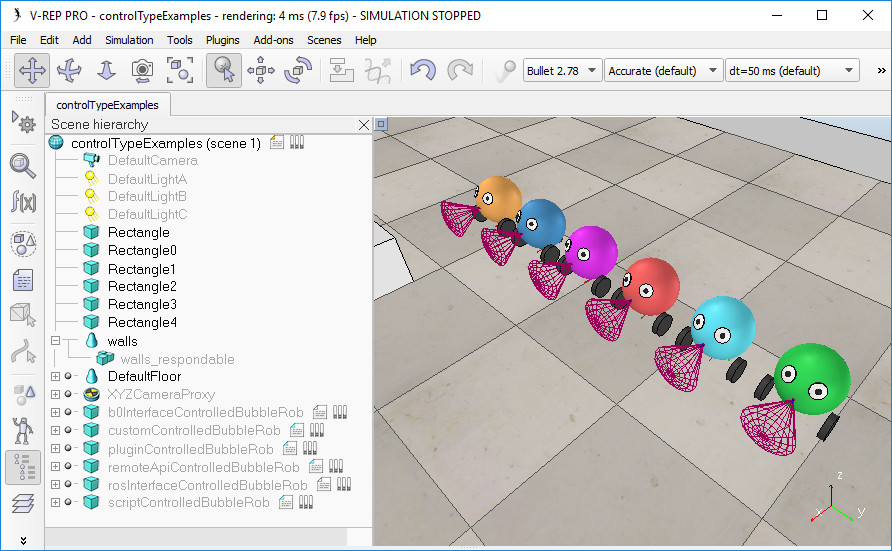
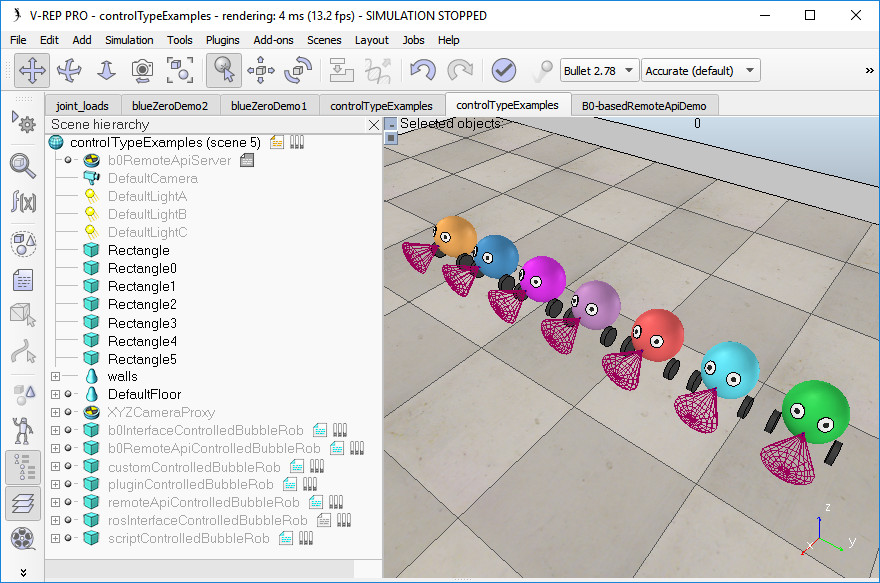
various b0-based remote API related, and sim.openTextEditor / sim.closeTextEditor

diff --git a/en/externalControllerTutorial.htm b/en/externalControllerTutorial.htm
@@ -24,18 +24,18 @@
 <br>
 <li> Another way one can control a robot or a simulation is by writing a <a href="plugins.htm">plugin</a>. The plugin mechanism allows for callback mechanisms, <a href="apiFunctionListCategory.htm#customizingLuaFunctions">custom Lua function registration</a>, and of course access to external function libraries. A plugin is often used in conjunction with child scripts (e.g. the plugin registers custom Lua functions, that, when called from a child script, will call back a specific plugin function). A major advantage in using plugins is also that  there is no communication lag as with the last 3 methods mentioned in this section (i.e. the <a href="apiOverview.htm">regular API</a> is used), and that a plugin is part of the application main thread (inherent synchronous operation). The drawbacks with plugins are: they are more complicated to program, and they need to be compiled with an external too. Refer also to the <a href="pluginTutorial.htm">plugin tutorial</a>.</li>
 <br>
-<li> A third  way one can control a robot or a simulation is by writing an external client application that relies on the <a href="remoteApiOverview.htm">remote API</a>. This is a very convenient and easy way, if you need to run the control code from an external application, from a robot or from another computer. This also allows you to control a simulation or a <a href="models.htm">model</a> (e.g. a virtual robot) with the exact same code as the one that runs the real robot. The remote API comes in two versions: the <a href="b0RemoteApiOverview.htm">B0-based remote API</a>, and the <a href="legacyRemoteApiOverview.htm">legacy remote API</a>.</li>
+<li> A third  and forth way one can control a robot or a simulation is by writing an external client application that relies on the <a href="remoteApiOverview.htm">remote API</a>. This is a very convenient and easy way, if you need to run the control code from an external application, from a robot or from another computer. This also allows you to control a simulation or a <a href="models.htm">model</a> (e.g. a virtual robot) with the exact same code as the one that runs the real robot. The remote API comes in two versions: the <a href="b0RemoteApiOverview.htm">B0-based remote API</a>, and the <a href="legacyRemoteApiOverview.htm">legacy remote API</a>.</li>
 <br>
 
 
-<li>A forth way to control a robot or a simulation is via a <a href="http://www.ros.org">ROS</a> node. In a similar way as the <a href="remoteApiOverview.htm">remote API</a>, ROS is a convenient way to have several distributed processes communicate with each other. While the remote API is very lightweight and fast, it allows only communication with V-REP. ROS on the other hand allows connecting virtually any number of processes with each other, and a large amount of compatible libraries are available. It is however heavier and more complicated than the remote API. Refer to the <a href="rosInterfaces.htm">ROS interfaces</a> for details.</li>
+<li>A fifth way to control a robot or a simulation is via a <a href="http://www.ros.org">ROS</a> node. In a similar way as the <a href="remoteApiOverview.htm">remote API</a>, ROS is a convenient way to have several distributed processes communicate with each other. While the remote API is very lightweight and fast, it allows only communication with V-REP. ROS on the other hand allows connecting virtually any number of processes with each other, and a large amount of compatible libraries are available. It is however heavier and more complicated than the remote API. Refer to the <a href="rosInterfaces.htm">ROS interfaces</a> for details.</li>
 <br>
 
-<li>A fifth way to control a robot or a simulation is via a <a href="https://github.com/blueworkforce/bluezero" target="_blank">BlueZero</a> (B&Oslash;) node. In a similar way as  ROS, BlueZero is a convenient way to have several distributed processes communicate with each other, and is a lightweight and cross-platform solution. Refer to the <a href="blueZeroPlugin.htm">BlueZero interface</a> for details.</li>
+<li>A sixth way to control a robot or a simulation is via a <a href="https://github.com/blueworkforce/bluezero" target="_blank">BlueZero</a> (B&Oslash;) node. In a similar way as  ROS, BlueZero is a convenient way to have several distributed processes communicate with each other, and is a lightweight and cross-platform solution. Refer to the <a href="blueZeroPlugin.htm">BlueZero interface</a> for details.</li>
 <br>
 
 
-<li>A sixth way to control a robot or a simulation is by writing an external application that communicates via various means (e.g. pipes, sockets, serial port, etc.) with a V-REP plugin or V-REP script. Two major advantages are the choice of programming language, which can be just any language, and the flexibility. Here also, the control code can run on a robot, or a different computer. This way of controlling a simulation or a model is however more tedious that the method with the <a href="remoteApiOverview.htm">remote API</a>.</li>
+<li>A seventh way to control a robot or a simulation is by writing an external application that communicates via various means (e.g. pipes, sockets, serial port, etc.) with a V-REP plugin or V-REP script. Two major advantages are the choice of programming language, which can be just any language, and the flexibility. Here also, the control code can run on a robot, or a different computer. This way of controlling a simulation or a model is however more tedious that the methods with the <a href="remoteApiOverview.htm">remote API</a>.</li>
 <br>
 
 
@@ -46,15 +46,10 @@
 <p align=center><img src="images/externalControllerTut1.jpg"></p>
 <br>
 
-<p>The simulation illustrates the 6 control types previously mentioned: the orange robot is controlled by  an embedded child script, the dark-blue robot is controlled by a plugin, the purple robot is controlled via the B0-based remote API and an external client application, the light purple robot is controlled via the legacy remote API and an external client application, the red robot is controlled via an external ROS application, the light-blue robot is controlled via an external BlueZero application,  and the green robot is controlled by an external server application via a custom socket communication. In all 6 cases, <a href="childScripts.htm">child scripts</a> are used, mainly to make the link with the outside world (e.g. launch the correct client application, and pass the correct object handles to it). There are two other ways one can control a robot, a simulation, or the simulator itself: by using <a href="customizationScripts.htm">customization scripts</a>, or <a href="addOns.htm">add-ons</a>. They are however not recommended for control and should be rather used to handle functionality while simulation is not running.</p>
+<p>The simulation illustrates the 7 control types previously mentioned: the orange robot is controlled by  an embedded child script, the dark-blue robot is controlled by a plugin, the purple robot is controlled via the B0-based remote API and an external client application, the light purple robot is controlled via the legacy remote API and an external client application, the red robot is controlled via an external ROS application, the light-blue robot is controlled via an external BlueZero application,  and the green robot is controlled by an external server application via a custom socket communication. In all 7 cases, <a href="childScripts.htm">child scripts</a> are used, mainly to make the link with the outside world (e.g. launch the correct client application, and pass the correct object handles to it). There are two other ways one can control a robot, a simulation, or the simulator itself: by using <a href="customizationScripts.htm">customization scripts</a>, or <a href="addOns.htm">add-ons</a>. They are however not recommended for control and should be rather used to handle functionality while simulation is not running.</p>
 
-<p>As an example, the child script linked to the purple robot has following main tasks:</p>
-<li>Search for a free socket connection port</li>
-<li>Start a remote API server service on the above port</li>
-<li>Launch the controller application (<a href="https://github.com/CoppeliaRobotics/bubbleRobClient" target="_blank">bubbleRobClient</a>) with the chosen connection port and some object handles as argument</li>
-
-
-
+<p>As an example, the child script linked to the purple robot has following main task:</p>
+<li>Launch the controller application (<a href="https://github.com/CoppeliaRobotics/b0RemoteApiBindings/tree/master/cpp/bubbleRobClient" target="_blank">bubbleRobClient_b0RemoteApi</a>) with some object handles as arguments. The server functionality of the B0-based remote API is provided by object <em>b0RemoteApiServer</em>.</li>
 <p>As another example, the child script linked to the red robot has following main tasks:</p>
 <li>Check if the <a href="rosInterf.htm">RosInterface</a> for V-REP was loaded</li>
 <li>Launch the controller application (<a href="https://github.com/CoppeliaRobotics/ros_bubble_rob2" target="_blank">rosBubbleRob2</a>) with some topic names or object handles as arguments</li>
@@ -66,7 +61,7 @@
 <li>At each simulation pass, send the sensor values to the controller, and read the desired motor values from the controller</li>
 <li>At each simulation pass, apply the desired motor values to the robot's joints</li>
 
-<p>Run the simulation, and copy-and-paste all robots: you will see that the duplicated robots will directly be operational, since their attached child scripts are in charge of launching new instances of <em>bubbleRobClient</em>, <em>rosBubbleRob2</em>, <em>bubbleRobServer, b0_bubbleRob</em>, or calling the appropriate plugin Lua extension function.</p>
+<p>Run the simulation, and copy-and-paste all robots: you will see that the duplicated robots will directly be operational, since their attached child scripts are in charge of launching new instances of their respective external applications, or calling the appropriate plugin Lua extension function.</p>
 
 <p>Finally, notice that the green robot is controlled via <em>bubbleRobServer</em>, but that its child script acts as client that communicates with the server. You could also imagine having the client part not inside of a child script, but inside of a plugin. Such an example is illustrated in the <a href="robotLanguageIntegrationTutorial.htm">robot language interpreter integration tutorial</a>. </p>
 

diff --git a/en/acknowledgments.htm b/en/acknowledgments.htm
@@ -134,7 +134,7 @@ Eric Rohmer who is a thorough V-REP tester and an &quot;idea machine&quot;. He i
 <li>Emanuel Eichhammer, for his <a href="http://www.customplot.com">QCustomPlot</a> used in the <a href="customUIPlugin.htm">custom UI plugin</a>. <a href="#qcustomplot">See the license</a>.</li>
 <li>Benjamin Navarro, for his code in the legacy remote API, which enables shared memory communication instead of socket communication.</li>
 
-<li>Following people for noticing bugs, reporting problems, suggesting solutions or new ideas, providing patches, code improvements, or simply helping out: Guillermo Presti, Matthias Fueller, Paul Fudal, Matthieu Lapeyre, Alberto Fanjul, Laurens Philippo, Vadim Liventsev, Kirill Makukhin, Patrick Bouffard, Pouya Mohammadi, Luca Marchionni, Barrett Ames, Arnaud Leleve, Geerten Doornenbal, Nikolaus Wittenstein, Ayberk Ozgur, Qi Wang, Giordano, Karl Robillard, Brian Yeomans, Kiyoshi Irie, Ulrich Schwesinger, Peter Mačička, Inkyu Sa, David Butterworth, Marco Cognetti, Xinyu Zhang, Jaqueline Gallardo, Serkan ÇİÇEK, Taehoon Koo, He Tao, Yusuke Ishizawa, Billy Newman, Rüdiger Dehmel, Roberto Marino, Renaud Detry, Roband, Hendrik Wiese, Matthias Schindler, George Moustris, Marco Bellaccini, Klaus Raizer, Paulo Gurgel, Stéphane Magnenat, Philipp Krüsi, Pascal Gohl, Gianpaolo Gonnelli, Felix Herrmann, Edgar Virga, Josep Tormo Costa, Gaël Ecorchard, Massimo Cefalo, Robert Lang, Marc Durvaux, Alexander Rietzler, Matt Derry, Arne Hitzmann, Sergi Foix, Daniel Morberg, Andreas Kuhner, Gerold Huber, Danilo Vasconcellos Vargas, Spencer Krause, Daniel Kuhner, Filip Jares, Luigi Ferri, Michaela Richter, Daniel Lechner, Sven Knüppel, Steve Nguyen, Jonas Sperling, Roberto Guzman, James Besancon, Andrew Vardy, Bipeen Acharya, Fred Gisa, Simon D. Levy, Leopoldo Armesto, Rodrigo Moreno Garcia, Hanna Kurniawati, Dimitri Klimenko, Joshua Mun Song,  Vinay Yadav, Thomas Estier, Matthias Imle, Rosé Rosado, Soner Ulun, Reza Mahjourian, Ben Allan, Riccardo Spica,  Giovanni Claudio, Guenter Schreiber, Antoine Rennuit, Francois Conti, Sébastien Granges, Patrick Helmer, Eva Alves Costa, Lucian Cucu, Sigurd Villumsen, Andrea Censi, Pierre Rouanet, Leander Hille, Christoph Hügle, William Harrison, Scott Drew Pendleton, Jan Dentler, Raimund Krenmüller, Anuraj Rajendraprakash, Ilya Nemihin, Ángel Luis Jiménez García, Leander Hille, Pierre Rouanet, Kenichi Hara, Ilya Nemihin, Federico Ferri, Michael Michalik, Martin Pecka, Nicola Piccinelli, Kshitij Tiwari, Victor Gomez, Parker Owan, Yuki Suga, Muhammad Umer Huzaifa, Marshall Floyd, Augusto Gandia, Pierre Jacquot, Gurvan Le Bleis, Andreu Vidal, Nicola Di Pol, Tobias Groll, Wu Xiaojun, Karol Mocniak, Ana Lucia, Ricardo Azambuja, Anto Ronson, Graeme Neff Wilson, Minson Lee, Tiago Malheiro, Andrew Hundt, Ahmed Yacine, Matthias Ploner, Indranil Sur, Sung Kyun Kim, Rik Timmers, Matthew Veres, Korolyov Alexei, Daniel Angelov, Mohammed Talha, Bartolomeo Della Corte, Scott Hissam, Mark Fink, Hao Wang, Matias Nitsche, Ndivhuwo Makondo, Yu Zhang, DeKita G. Moon, Paul Santiago Tumbaco Casa, Tobias Benz, Rodrigo Moreno Garcia, Arjun Narayanan, Sven Schweigler, Nicola Battilani, Mark Edmonds,  Benno Timmermann, Cándido Otero Moreira, Justin Yim, Allen Zhu, Leo Koppel, Ravi Prakash Joshi, Sina Radmard, Sai Vemprala, Waleed El-Badry, James Barger, Gonzalo Casas, Metehan Doyran, Arif Rahman, Jason Cachrane, Steffen Hemer, Fangyi Zhang, Filipe Rocha, virgile Daugé, Riccardo Spica, Florian Golemo, Kevin M. Lynch, Frank C. Park, Jacob Huesman, Matthew Veres, Cándido Otero, Leon Masopust, Michael Tong, Zhengxing Yang, Thomas Gurriet, Lenka Pitonakova, Hervé Frezza-Buet, Justus Rijke, Stefan Müller, Julien Lechalupe, Tristan Gahler, Robert Peck, William Jones... We know we forgot many many people, also significant ones... please let us know!</li>
+<li>Following people for noticing bugs, reporting problems, suggesting solutions or new ideas, providing patches, code improvements, or simply helping out: Guillermo Presti, Matthias Fueller, Paul Fudal, Matthieu Lapeyre, Alberto Fanjul, Laurens Philippo, Vadim Liventsev, Kirill Makukhin, Patrick Bouffard, Pouya Mohammadi, Luca Marchionni, Barrett Ames, Arnaud Leleve, Geerten Doornenbal, Nikolaus Wittenstein, Ayberk Ozgur, Qi Wang, Giordano, Karl Robillard, Brian Yeomans, Kiyoshi Irie, Ulrich Schwesinger, Peter Mačička, Inkyu Sa, David Butterworth, Marco Cognetti, Xinyu Zhang, Jaqueline Gallardo, Serkan ÇİÇEK, Taehoon Koo, He Tao, Yusuke Ishizawa, Billy Newman, Rüdiger Dehmel, Roberto Marino, Renaud Detry, Roband, Hendrik Wiese, Matthias Schindler, George Moustris, Marco Bellaccini, Klaus Raizer, Paulo Gurgel, Stéphane Magnenat, Philipp Krüsi, Pascal Gohl, Gianpaolo Gonnelli, Felix Herrmann, Edgar Virga, Josep Tormo Costa, Gaël Ecorchard, Massimo Cefalo, Robert Lang, Marc Durvaux, Alexander Rietzler, Matt Derry, Arne Hitzmann, Sergi Foix, Daniel Morberg, Andreas Kuhner, Gerold Huber, Danilo Vasconcellos Vargas, Spencer Krause, Daniel Kuhner, Filip Jares, Luigi Ferri, Michaela Richter, Daniel Lechner, Sven Knüppel, Steve Nguyen, Jonas Sperling, Roberto Guzman, James Besancon, Andrew Vardy, Bipeen Acharya, Fred Gisa, Simon D. Levy, Leopoldo Armesto, Rodrigo Moreno Garcia, Hanna Kurniawati, Dimitri Klimenko, Joshua Mun Song,  Vinay Yadav, Thomas Estier, Matthias Imle, Rosé Rosado, Soner Ulun, Reza Mahjourian, Ben Allan, Riccardo Spica,  Giovanni Claudio, Guenter Schreiber, Antoine Rennuit, Francois Conti, Sébastien Granges, Patrick Helmer, Eva Alves Costa, Lucian Cucu, Sigurd Villumsen, Andrea Censi, Pierre Rouanet, Leander Hille, Christoph Hügle, William Harrison, Scott Drew Pendleton, Jan Dentler, Raimund Krenmüller, Anuraj Rajendraprakash, Ilya Nemihin, Ángel Luis Jiménez García, Leander Hille, Pierre Rouanet, Kenichi Hara, Ilya Nemihin, Federico Ferri, Michael Michalik, Martin Pecka, Nicola Piccinelli, Kshitij Tiwari, Victor Gomez, Parker Owan, Yuki Suga, Muhammad Umer Huzaifa, Marshall Floyd, Augusto Gandia, Pierre Jacquot, Gurvan Le Bleis, Andreu Vidal, Nicola Di Pol, Tobias Groll, Wu Xiaojun, Karol Mocniak, Ana Lucia, Ricardo Azambuja, Anto Ronson, Graeme Neff Wilson, Minson Lee, Tiago Malheiro, Andrew Hundt, Ahmed Yacine, Matthias Ploner, Indranil Sur, Sung Kyun Kim, Rik Timmers, Matthew Veres, Korolyov Alexei, Daniel Angelov, Mohammed Talha, Bartolomeo Della Corte, Scott Hissam, Mark Fink, Hao Wang, Matias Nitsche, Ndivhuwo Makondo, Yu Zhang, DeKita G. Moon, Paul Santiago Tumbaco Casa, Tobias Benz, Rodrigo Moreno Garcia, Arjun Narayanan, Sven Schweigler, Nicola Battilani, Mark Edmonds,  Benno Timmermann, Cándido Otero Moreira, Justin Yim, Allen Zhu, Leo Koppel, Ravi Prakash Joshi, Sina Radmard, Sai Vemprala, Waleed El-Badry, James Barger, Gonzalo Casas, Metehan Doyran, Arif Rahman, Jason Cachrane, Steffen Hemer, Fangyi Zhang, Filipe Rocha, virgile Daugé, Riccardo Spica, Florian Golemo, Kevin M. Lynch, Frank C. Park, Jacob Huesman, Matthew Veres, Cándido Otero, Leon Masopust, Michael Tong, Zhengxing Yang, Thomas Gurriet, Lenka Pitonakova, Hervé Frezza-Buet, Justus Rijke, Stefan Müller, Julien Lechalupe, Tristan Gahler, Robert Peck, William Jones, Benjamin Erdemann ... We know we forgot many many people, also significant ones... please let us know!</li>
 
 <p>
 I also wish to thank following people for the inspiration they provided in various fields through their publications, books or other means:

diff --git a/en/versionInfo.htm b/en/versionInfo.htm
@@ -47,7 +47,7 @@ Version history:
 <table class=subsectionTable><tr class=subsectionTd>
  <td class=subsectionTd><a name="3.X.X"></a>V-REP V3.X.X (not yet released)</td></tr></table> 
  
-<li>Fixed several bugs. Thanks to Leon Masopust, Michael Tong, Zhengxing Yang, Lenka Pitonakova, Thomas Gurriet, Hervé Frezza-Buet, Justus Rijke, Stefan Müller, Julien Lechalupe, Tristan Gahler, Robert Peck and William Jones for noticing them or helping to resolve them.</li>
+<li>Fixed several bugs. Thanks to Leon Masopust, Michael Tong, Zhengxing Yang, Lenka Pitonakova, Thomas Gurriet, Hervé Frezza-Buet, Justus Rijke, Stefan Müller, Julien Lechalupe, Tristan Gahler, Robert Peck, William Jones and Benjamin Erdemann for noticing them or helping to resolve them.</li>
 <li><a href="scriptExecution.htm">Script execution/calling order</a> has been adjusted, for a more consistent and overall logical behaviour. This may have an impact on how a simulation runs in certain situations. The user can revert to previous behaviour by replacing <a href="regularApi/simHandleChildScripts.htm">sim.handleChildScripts</a>, <a href="regularApi/simLaunchThreadedChildScripts.htm">sim.launchThreadedChildScripts</a> and <a href="regularApi/simResumeThreads.htm">sim.resumeThreads</a> in the <a href="mainScript.htm">main script</a> with <em>sim.handleChildScripts_legacy</em>, <em>sim.launchThreadedChildScripts_legacy</em> and <em>sim.resumeThreads_legacy</em>. A better alternative would be to adjust the <em><a href="scriptProperties.htm">Tree traversal</a></em><a href="scriptProperties.htm"> parameter</a> for scripts that require it. </li>
 <li><a href="dynCallbackFunctions.htm">Dynamics callback functions</a> have been implemented and are supported in <a href="childScripts.htm#nonThreaded">non-threaded child scripts</a> and <a href="customizationScripts.htm">customization scripts</a>.</li>
 <li>Added a system callback function for <a href="customizationScripts.htm">customization scripts</a> and <a href="addOns.htm">add-on scripts</a> that allows, during simulation, to control the execution of the <a href="mainScript.htm">main script</a>: <em><a href="customizationScripts.htm#sysCall_beforeMainScript">sysCall_beforeMainScript</a></em>. This is useful to easily implement step-by-step simulation, or to easily synchronize the simulation with an external application.</li>

diff --git a/en/regularApi/simCloseTextEditor.htm b/en/regularApi/simCloseTextEditor.htm
@@ -1,0 +1,79 @@
+<!DOCTYPE HTML PUBLIC "-//W3C//DTD HTML 4.0 Strict//EN">
+<html>
+
+<head>
+<meta http-equiv="Content-Language" content="en-us">
+<title>simCloseTextEditor</title>
+<link rel="stylesheet" type="text/css" href="../../style.css">
+</head>
+
+<body>
+
+<div align="center">
+<table class=allEncompassingTable >
+ <tr>
+  <td >
+<p><a href="../../index.html" TARGET="_top"><img src="../images/homeImg.png"></a></p>
+
+<h1><a href="../apiOverview.htm">Regular API</a> function</h1>
+<h3 class=subsectionBar><a name="simCloseTextEditor" id="simCloseTextEditor"></a>sim.closeTextEditor </h3>
+<table class=apiTable>
+<tr class=apiTableTr> 
+<td class=apiTableLeftDescr>
+Description 
+</td> 
+<td class=apiTableRightDescr>Closes a non-modal text edition window previously opened with <a href="simOpenTextEditor.htm">sim.openTextEditor</a>.</td>
+</tr> 
+<tr class=apiTableTr> 
+<td class=apiTableLeftCSyn>
+C synopsis
+</td> 
+<td class=apiTableRightCSyn><div>-</div></td> 
+</tr> 
+<tr class=apiTableTr> 
+<td class=apiTableLeftCParam>C parameters</td> 
+<td class=apiTableRightCParam>
+<div>-</div>
+</td> 
+</tr> 
+<tr class=apiTableTr> 
+<td class=apiTableLeftCRet>
+C return value
+</td> 
+<td class=apiTableRightCRet>
+<div>-</div>
+</td> 
+</tr> 
+<tr class=apiTableTr> 
+<td class=apiTableLeftLSyn>
+Lua synopsis
+</td> 
+<td class=apiTableRightLSyn><div>number result=sim.closeTextEditor(number handle,boolean ignoreCallback)</div></td> 
+</tr> 
+<tr class=apiTableTr> 
+<td class=apiTableLeftLParam>Lua parameters</td> 
+<td class=apiTableRightLParam>
+<div><strong>handle</strong>: the handle of the non-modal text editor window.</div>
+<div><strong>ignoreCallback</strong>: if true, the callback function specified when opening the non-modal text editor window will be ignored, otherwise the callback function will be called if the specified window was not closed yet.</div>
+</td> 
+</tr> 
+<tr class=apiTableTr> 
+<td class=apiTableLeftLRet>
+Lua return values
+</td> 
+<td class=apiTableRightLRet>
+<div><strong>result</strong>: 0 if the text editor window does not exist or was already closed, otherwise 1</div>
+</td> 
+</tr> 
+</table> 
+
+<br>
+<p><a href="../apiFunctions.htm">All regular API functions on one page</a></p>
+<br>
+<br>
+</td>
+</tr>
+</table>
+</div>
+</body>
+</html>

diff --git a/en/apiFunctionListCategory.htm b/en/apiFunctionListCategory.htm
@@ -837,6 +837,7 @@ and their <a href="objectParameterIDs.htm#sceneObjects">scene object related par
 <a href="regularApi/simSetScriptVariable.htm">sim.setScriptVariable</a> (Lua)                            <a href="regularApi/simSetScriptVariable.htm">simSetScriptVariable</a> (C/C++)</a>
 <a href="regularApi/simGetExtensionString.htm">sim.getExtensionString</a> (Lua)                           <a href="regularApi/simGetExtensionString.htm">simGetExtensionString</a> (C/C++)</a>
 <a href="regularApi/simOpenTextEditor.htm">sim.openTextEditor</a> (Lua)                               <a href="regularApi/simOpenTextEditor.htm">simOpenTextEditor</a> (C/C++)</a>
+<a href="regularApi/simCloseTextEditor.htm">sim.closeTextEditor</a> (Lua)
 <a href="regularApi/simSetReferencedHandles.htm">sim.setReferencedHandles</a> (Lua)                         <a href="regularApi/simSetReferencedHandles.htm">simSetReferencedHandles</a> (C/C++)</a>
 <a href="regularApi/simGetReferencedHandles.htm">sim.getReferencedHandles</a> (Lua)                         <a href="regularApi/simGetReferencedHandles.htm">simGetReferencedHandles</a> (C/C++)</a>
 </pre>
@@ -930,6 +931,7 @@ and their <a href="objectParameterIDs.htm#sceneObjects">scene object related par
 <a href="regularApi/simResumeThreads.htm">sim.resumeThreads</a> (Lua)
 <a href="regularApi/simSetDebugWatchList.htm">sim.setDebugWatchList</a> (Lua)
 <a href="regularApi/simGetUserVariables.htm">sim.getUserVariables</a> (Lua)
+<a href="regularApi/simCloseTextEditor.htm">sim.closeTextEditor</a> (Lua)
 </pre>
 <br>
 
@@ -1325,6 +1327,7 @@ and their <a href="objectParameterIDs.htm#sceneObjects">scene object related par
                                                        <a href="regularApi/simUnlockResources.htm">simUnlockResources</a> (C/C++)</a>
 <a href="regularApi/simGetExtensionString.htm">sim.getExtensionString</a> (Lua)                           <a href="regularApi/simGetExtensionString.htm">simGetExtensionString</a> (C/C++)</a>
 <a href="regularApi/simOpenTextEditor.htm">sim.openTextEditor</a> (Lua)                               <a href="regularApi/simOpenTextEditor.htm">simOpenTextEditor</a> (C/C++)</a>
+<a href="regularApi/simCloseTextEditor.htm">sim.closeTextEditor</a> (Lua)
 </pre>
 
 <br>

diff --git a/en/regularApi/simOpenTextEditor.htm b/en/regularApi/simOpenTextEditor.htm
@@ -22,7 +22,7 @@
 <td class=apiTableLeftDescr>
 Description 
 </td> 
-<td class=apiTableRightDescr>Opens a modal text edition window.</td>
+<td class=apiTableRightDescr>Opens a text edition window. The C version of this function opens a modal window, the Lua version of this functions opens a modal or non-modal window. See also <a href="simCloseTextEditor.htm">sim.closeTextEditor</a>.</td>
 </tr> 
 <tr class=apiTableTr> 
 <td class=apiTableLeftCSyn>
@@ -83,12 +83,15 @@ C return value
 <td class=apiTableLeftLSyn>
 Lua synopsis
 </td> 
-<td class=apiTableRightLSyn>string text,table_2 windowSize,table_2 windowPosition=sim.openTextEditor(string initText,string xml=nil)</td> 
+<td class=apiTableRightLSyn><div>string text,table_2 windowSize,table_2 windowPosition=sim.openTextEditor(string initText,string xml=nil) (modal window)</div>
+<div>number handle=sim.openTextEditor(string initText,string xml,string callbackFunction) (non-modal window)</div></td> 
 </tr> 
 <tr class=apiTableTr> 
 <td class=apiTableLeftLParam>Lua parameters</td> 
 <td class=apiTableRightLParam>
-<div>Similar to C-function</div>
+<div><strong>initText</strong>: a pointer to the initial text to be displayed.</div>
+<div><strong>xml</strong>: an XML description of the text editor's properties. Can be nil for default properties. See the C version for details.</div>
+<div><strong>callbackFunction</strong>: a callback function that will be called in the calling script, if the user closes the text edition window. The callback arguments are the edited text, the size of the window and the position of the window</div>
 </td> 
 </tr> 
 <tr class=apiTableTr> 
@@ -96,7 +99,10 @@ Lua synopsis
 Lua return values
 </td> 
 <td class=apiTableRightLRet>
-<div>Similar to C-function</div>
+<div><strong>text</strong>: the edited text</div>
+<div><strong>windowSize</strong>: the size of the window</div>
+<div><strong>windowPosition</strong>: the position of the window</div>
+<div><strong>handle</strong>: the handle of the non-modal text edition window</div>
 </td> 
 </tr> 
 </table> 

diff --git a/en/rosTutorialIndigo.htm b/en/rosTutorialIndigo.htm
@@ -178,7 +178,7 @@ $ rosrun image_view image_view image:=/visionSensorData</pre>
 $ rostopic echo /visionSensorData</pre>
 
 
-<p>Now stop the simulation and load the demo scene <em>controlTypeExamples.ttt</em>, and run the simulation. The scene illustrates the main 5 control methods currently supported in V-REP. The robots are simplistic, and also behaving in a simplistic way for simplification purposes. Run the simulation and focus on the red robot, which is controlled via the <a href="rosInterf.htm">RosInterface</a>:</p>
+<p>Now stop the simulation and load the demo scene <em>controlTypeExamples.ttt</em>, and run the simulation. The scene illustrates the main 7 control methods currently supported in V-REP. The robots are simplistic, and also behaving in a simplistic way for simplification purposes. Run the simulation and focus on the red robot, which is controlled via the <a href="rosInterf.htm">RosInterface</a>:</p>
 
 <p align=center><img src="images/externalControllerTut1.jpg"></p>
 <p class=imageLabel>[External client application controlling the red robot via ROS]</p>

diff --git a/en/apiFunctionListAlphabetical.htm b/en/apiFunctionListAlphabetical.htm
@@ -76,6 +76,7 @@
 <a href="regularApi/simClearStringSignal.htm">sim.clearStringSignal</a> (Lua)                            <a href="regularApi/simClearStringSignal.htm">simClearStringSignal</a> (C/C++)</a>
 <a href="regularApi/simCloseModule.htm">sim.closeModule</a> (Lua)
 <a href="regularApi/simCloseScene.htm">simCloseScene</a> (Lua)</a>                                    <a href="regularApi/simCloseScene.htm">simCloseScene</a> (C/C++)</a>
+<a href="regularApi/simCloseTextEditor.htm">sim.closeTextEditor</a> (Lua)
 <a href="regularApi/simComputeJacobian.htm">sim.computeJacobian</a> (Lua)                              <a href="regularApi/simComputeJacobian.htm">simComputeJacobian</a> (C/C++)</a>
 <a href="regularApi/simComputeMassAndInertia.htm">sim.computeMassAndInertia</a> (Lua)                        <a href="regularApi/simComputeMassAndInertia.htm">simComputeMassAndInertia</a> (C/C++)</a>
 <a href="regularApi/simConvexDecompose.htm">sim.convexDecompose</a> (Lua)                              <a href="regularApi/simConvexDecompose.htm">simConvexDecompose</a> (C/C++)</a>
